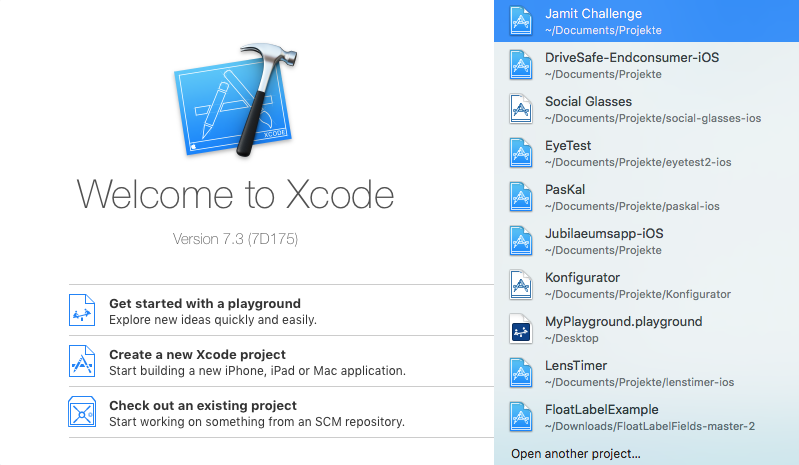
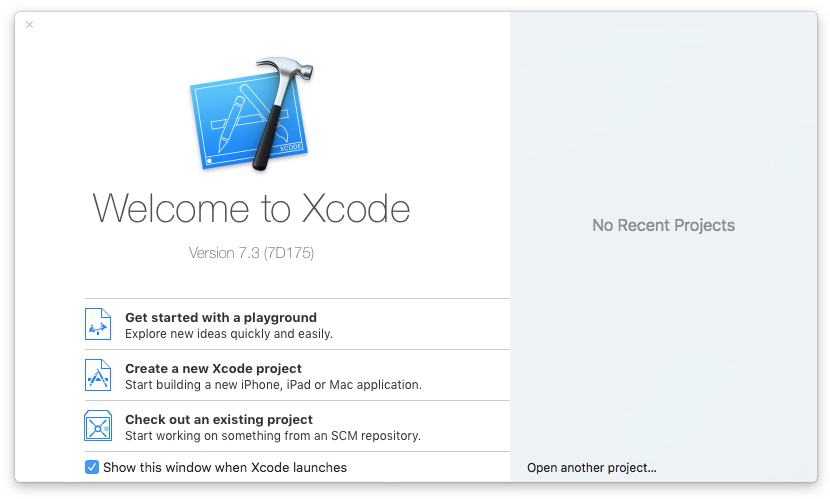
Minor changes in creating-code-projects-german.md, new welcome-to-xcode.png

diff --git a/_drafts/creating-xcode-projects-german.md b/_drafts/creating-xcode-projects-german.md
@@ -8,29 +8,35 @@ Dieser Artikel widmet sich dem Erstellen eines neuen Xcode Projekts. Dabei geht 
 
 ## Anlegen eines neuen Projekts
 
-Nach dem Start von Xcode erwartet einen der Welcome Screen von Xcode. Zum Anlegen eines neuen Xcode Projekts wählt man einfach die Option "Create new Xcode Project". Falls man keinen Welcome Screen angezeigt bekommt, kann man auch einfach den Umweg über `File -> New -> Project...` nehmen.
-
 ![Bild des Welcome Fensters](/public/images/creating-xcode-projects/welcome-to-xcode.png)
-*Unten links befindet sich die Option zum anlegen eines neuen Projekts*
+*Unten links befindet sich die Option zum Anlegen eines neuen Projekts*
 
-Anschließend wird man von Xcode aufgefordert eine Vorlage für das neue Projekt zu wählen. Hier stehen viele verschiedene Optionen zur Verfügung, wie beispielsweise "Master-Detail Application", "Page-Based Application" oder auch "Game". Anhand der Wahl legt Xcode dann selbstständig erste Views und passende View Controller an. In den meisten Fällen bietet sich Single-View Application an, da man nur einen einzelnen leeren View erhält und der Aufbau eines Storyboards vollkommen dem Nutzer überlassen wird. Speziell wenn man eine spezifische File Structure oder andere Best Practices anwenden möchte ist die Wahl von Single-View Application empfehlenswert da Xcode nicht unbedingt die besten Voreinstellungen trifft.
+Nach dem Start von Xcode erwartet einen der Welcome Screen von Xcode. Zum Anlegen eines neuen Xcode Projekts wählt man einfach die Option "Create new Xcode Project". Falls man keinen Welcome Screen angezeigt bekommt, kann man auch einfach den Umweg über `File -> New -> Project...` nehmen.
 
 ![Bild des Schritts "Choose Template"](/public/images/creating-xcode-projects/choose-template.png)
 *Die empfohlene Option ist "Single-View Application"*
 
-Anschließend muss man noch einige Optionen festlegen. **Product Name** bezieht sich auf den Namen den die App später einmal tragen soll. Dabei sollte man beachten, dass dieser Case Sensitive ist. In unserem Beispielprojekt wählen wir hier "Jamit Challenge". **Organization Name** beschreibt den Namen des Entwicklers. Da wir hier bei Jamit Labs nur selten eigene Projekte umsetzen, wählen wir meist den Namen des Auftraggebers. Im Feld **Organization Identifier** trägt man die Website des Unternehmens oder Entwicklers rückwärts ein. Ein Beispiel wäre "com.jamitlabs". Der eingetragene Identifier wird damit mit keiner echten Domain verknüpft, es handelt sich lediglich um die [von Apple empfohlene Notation](https://www.quora.com/Xcode-What-is-the-significance-of-a-projects-organization-identifier) um den Organization Identifier einzigartig zu machen. Der **Bundle Identifier** wird anschließend automatisch angelegt und besteht aus dem Organization Identifier und dem Product Name. Bei **Language** handelt es sich um die Programmiersprache mit der man das Projekt anlegen möchte (Swift oder Objective-C). Nachträglich kann man das Projekt noch immer mit einer anderen Sprache erweitern, nur die ersten Files werden automatisch in der gewählten Sprache angelegt. **Devices** legt fest für welche Geräte die App später einmal ausgelegt sein wird.
-
-Anschließend folgen noch 3 weitere Optionen. **Use Core Data** legt den Grundstein für die Nutzung eines Core Data Models. Xcode legt dann für den Nutzer eine `.xcdatamodeld` file an und legt weitere Voreinstellungen fest. Bei der Wahl von **Include Unit Tests / Include UI Tests** werden für den User bereits die entsprechenden Files für die unterschiedlichen Tests angelegt.
-
-Die Optionen können auch alle noch nachträglich geändert werden. Das ist aber Teils mit etwas Aufwand verbunden weshalb es ratsam ist, sich vorher Gedanken über den gewünschten Umfang und die Funktionsweise der App zu machen.
+Anschließend wird man von Xcode aufgefordert eine Vorlage für das neue Projekt zu wählen. Hier stehen viele verschiedene Optionen zur Verfügung, wie beispielsweise "Master-Detail Application", "Page-Based Application" oder auch "Game". Anhand der Wahl legt Xcode dann selbstständig erste Views und passende View Controller an. In den meisten Fällen bietet sich Single-View Application an, da man nur einen einzelnen leeren View erhält und der Aufbau eines Storyboards vollkommen dem Nutzer überlassen wird. Speziell wenn man eine spezifische File Structure oder andere Best Practices anwenden möchte ist die Wahl von Single-View Application empfehlenswert da Xcode nicht unbedingt die besten Voreinstellungen trifft.
 
 ![Bild des Schritts "Choose Options"](/public/images/creating-xcode-projects/choose-options.png)
 *Die Optionen die wir für unser Beispielprojekt gewählt haben.*
 
-Anschließend muss der Nutzer nur noch den gewünschten Speicherort wählen und der Project Editor für das neu erstellte Projekt öffnet sich. Das Projekt sollte man nun einmal commiten ([hier](version-control-german) mehr zu commits und Version Control). Als commit Message bietet sich `Initial commit` an.
+Anschließend muss man noch einige Optionen festlegen. **Product Name** bezieht sich auf den Namen den die App später einmal tragen soll. Dabei sollte man beachten, dass dieser Case Sensitive ist. In unserem Beispielprojekt wählen wir hier "Jamit Challenge". **Organization Name** beschreibt den Namen des Unternehmens/Teams oder des Entwicklers (falls man alleine arbeitet). Im Feld **Organization Identifier** trägt man die eigene Website rückwärts ein. Ein Beispiel wäre "com.jamitlabs". Der eingetragene Identifier wird damit mit keiner echten Domain verknüpft, es handelt sich lediglich um die [von Apple empfohlene Notation](https://www.quora.com/Xcode-What-is-the-significance-of-a-projects-organization-identifier) um den Organization Identifier einzigartig zu machen. Man kann sich also auch ruhigen Gewissens für einen Domainnamen entscheiden der nicht im eigenen Besitz ist. Der **Bundle Identifier** wird anschließend automatisch angelegt und besteht aus dem Organization Identifier und dem Product Name. Bei **Language** handelt es sich um die Programmiersprache mit der man das Projekt anlegen möchte (Swift oder Objective-C). Nachträglich kann man das Projekt noch immer mit einer anderen Sprache erweitern, nur die ersten Dateien werden automatisch in der gewählten Sprache angelegt. Im Zweifelsfall sollte man alle Haken setzen, da die erstellten Dateien nicht stören. **Devices** legt fest für welche Geräte die App später einmal ausgelegt sein wird. Man kann sich zwischen den Optionen "iPhone", "iPad" und "Universal" entscheiden. Universal bedeutet dass die App sowohl auf dem iPad als auch auf dem iPhone lauffähig ist.
+
+Anschließend folgen noch 3 weitere Optionen. **Use Core Data** legt den Grundstein für die Nutzung eines Core Data Models. Xcode legt dann für den Nutzer eine `.xcdatamodeld`-Datei an und legt weitere Voreinstellungen fest. Bei der Wahl von **Include Unit Tests / Include UI Tests** werden für den User bereits die entsprechenden Dateien für die unterschiedlichen Tests angelegt.
+
+Die Optionen können auch alle noch nachträglich geändert werden. Das ist aber Teils mit etwas Aufwand verbunden weshalb es ratsam ist, sich vorher Gedanken über den gewünschten Umfang und die Funktionsweise der App zu machen.
+
+![Bild der Speicherortwahl](/public/images/creating-xcode-projects/choose-storage-location.png)
+*Letzendlich muss noch der gewünschte Speicherort gewählt werden.*
+
+Anschließend muss der Nutzer nur noch den gewünschten Speicherort wählen. Außerdem kann man sich hier entscheiden ob man bereits beim Erstellen des Projekts ein Git-Repository anlegen möchte. Mit einem Klick auf "Create" ist Erstellungsprozess abgeschlossen.
 
 ![Bild des Project Editors](/public/images/creating-xcode-projects/project-editor.png)
 *Der Project Editor nach dem Anlegen eines neuen Projekts.*
+
+Anschließend öffnet sich der Project Editor. Falls man die Option zum Erstellen eines Repositorys angehakt hat wurden die ersten Dateien bereits mit der Message "Initial Commit" gemerged.
+
 
 ## Voreinstellungen die gemacht werden sollten
 
